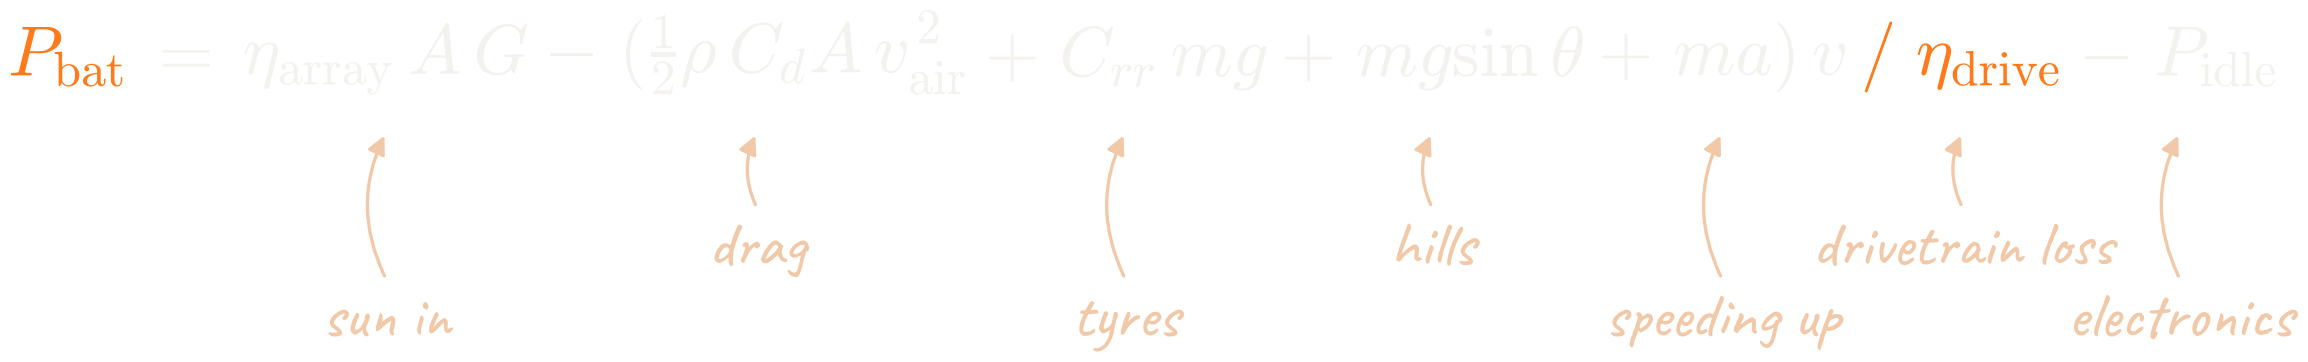
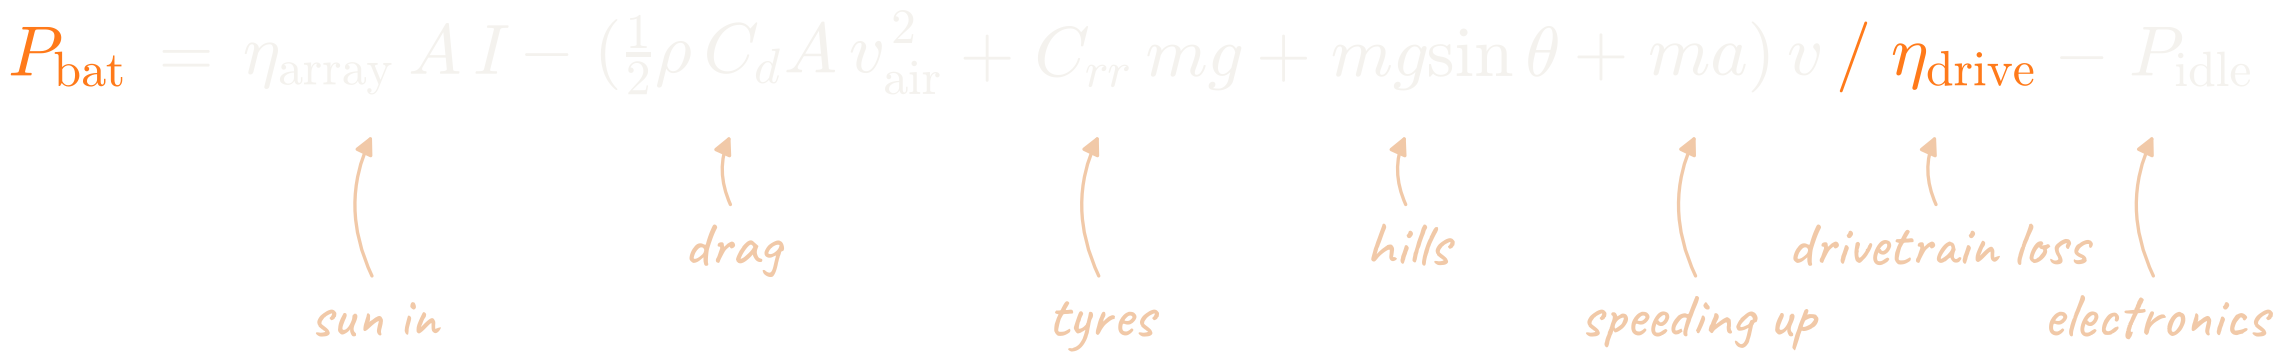
Deck figures: labelled waterfall, MPPT names, irradiance I, Day 2 Stage 2 energy chart

diff --git a/Pre-WSC/sasol_analysis/report/deck_figures.py b/Pre-WSC/sasol_analysis/report/deck_figures.py
@@ -136,10 +136,11 @@ def plan_profile():
 
 # ---------- race vs plan ----------
 def waterfall():
+    from matplotlib.patches import Patch
     t = pd.read_csv(PVA / "plan_vs_actual_by_day.csv").set_index("day")
     route = {d: t.asg_km[d] - t.blind_km[d] for d in (2, 3)}
-    steps = [("Plan", 3202.0, "total")]
-    steps += [(f"D{d}\nroute", route[d], "route") for d in (2, 3)]
+    steps = [("Planned", 3202.0, "total")]
+    steps += [(f"Day {d}\nreroute", route[d], "route") for d in (2, 3)]
     for d in range(1, 9):
         steps.append((f"Day {d}", t.actual_km[d] - (t.plan_km[d] + route.get(d, 0.0)), "loss"))
     steps.append(("Driven", float(t.actual_km.sum()), "total"))
@@ -148,15 +149,19 @@ def waterfall():
     for i, (lab, v, kind) in enumerate(steps):
         if kind == "total":
             ax.bar(i, v, color=INK, width=.64)
-            ax.text(i, v + 55, f"{v:.0f}", ha="center", fontsize=17, weight="bold")
+            ax.text(i, v + 55, f"{v:.0f} km", ha="center", fontsize=15, weight="bold")
             run = v
         else:
             ax.bar(i, abs(v), bottom=run + min(v, 0), color=LGREY if kind == "route" else ORANGE, width=.64)
-            ax.text(i, run + max(v, 0) + 55, f"{v:+.0f}".replace("-", "−"), ha="center", fontsize=15, color="#444")
+            ax.text(i, run + max(v, 0) + 55, f"{v:+.0f}".replace("-", "\u2212"), ha="center", fontsize=14, color="#444")
             run += v
-    ax.set_xticks(range(len(steps))); ax.set_xticklabels([s[0] for s in steps], fontsize=14)
+    ax.set_xticks(range(len(steps))); ax.set_xticklabels([s[0] for s in steps], fontsize=13)
     ax.tick_params(axis="x", length=0)
-    ax.set_ylabel("km"); ax.set_ylim(0, 3600)
+    ax.set_ylabel("distance (km)"); ax.set_ylim(0, 3700)
+    ax.legend(handles=[Patch(color=INK, label="planned / driven total"),
+                       Patch(color=LGREY, label="route changed by the organisers"),
+                       Patch(color=ORANGE, label="km not driven: electrical and mechanical faults")],
+              fontsize=13, loc="upper right", ncol=1)
     save(fig, "waterfall.png")
 
 
@@ -180,14 +185,15 @@ def climb_eta():
 def shading():
     s = pd.read_csv(PVA / "shading_by_relaz.csv")
     fig, ax = plt.subplots(figsize=(10.0, 4.8))
-    sty = {"A": (GREY, "-", "o", "A rear left"), "B": (LGREY, "-", "o", "B rear right"),
-           "C": (DEEP, "--", "s", "C front right"), "D": (ORANGE, "-", "s", "D front left")}
+    sty = {"A": (GREY, "-", "o", "MPPT A, rear left"), "B": (LGREY, "-", "o", "MPPT B, rear right"),
+           "C": (DEEP, "--", "s", "MPPT C, front right"), "D": (ORANGE, "-", "s", "MPPT D, front left")}
     for c, (col, ls, mk, lab) in sty.items():
         ax.plot(s.bin, s[f"{c}_mean"], ls=ls, marker=mk, color=col, lw=2.4, ms=7, label=lab)
     ax.set_xticks([-180, -90, 0, 90, 180])
     ax.set_xticklabels(["behind", "sun on left", "ahead", "sun on right", "behind"])
-    ax.set_ylabel("output / best string"); ax.set_ylim(0, 1.3); ax.set_yticks([0, .25, .5, .75, 1.0])
-    ax.legend(fontsize=14, ncol=4, loc="upper center")
+    ax.set_ylabel("output / best MPPT"); ax.set_ylim(0, 1.3); ax.set_yticks([0, .25, .5, .75, 1.0])
+    ax.legend(fontsize=13, ncol=2, loc="upper center")
+    ax.set_ylim(0, 1.45)
     save(fig, "shading.png")
 
 
@@ -205,6 +211,20 @@ def energy_balance():
     ax.set_ylabel("kWh used")
     ax.legend(fontsize=14, ncol=3, loc="upper right")
     save(fig, "energy_balance.png")
+
+
+def d2s2():
+    e = pd.read_csv(PVA / "energy_balance_by_stage.csv")
+    r = e[(e.day == 2) & (e.phase == "stage2")].iloc[0]
+    vals = [-r.measured_net_wh / 1000, -r.original_net_wh / 1000, -r.refined_net_wh / 1000]
+    labs = ["measured\non the car", "original\nmodel", "refined\nmodel"]
+    fig, ax = plt.subplots(figsize=(8.0, 5.2))
+    ax.bar(range(3), vals, color=[INK, LGREY, ORANGE], width=.6)
+    for i, v in enumerate(vals):
+        ax.text(i, v + 0.06, f"{v:.2f} kWh", ha="center", fontsize=17, weight="bold")
+    ax.set_xticks(range(3)); ax.set_xticklabels(labs, fontsize=15); ax.tick_params(axis="x", length=0)
+    ax.set_ylabel("battery energy used (kWh)"); ax.set_ylim(0, 3.3)
+    save(fig, "d2s2.png")
 
 
 def sensitivity():
@@ -245,7 +265,7 @@ def lstm_rmse():
 
 if __name__ == "__main__":
     which = sys.argv[1:] or ["route_map", "altitude", "plan_profile", "waterfall", "climb_eta", "shading",
-                             "energy_balance", "sensitivity", "lstm_rmse"]
+                             "energy_balance", "d2s2", "sensitivity", "lstm_rmse"]
     for w in which:
         globals()[w]()
     print(sorted(p.name for p in OUT.glob("*.png")))

diff --git a/Pre-WSC/sasol_analysis/report/deck_equation.py b/Pre-WSC/sasol_analysis/report/deck_equation.py
@@ -42,7 +42,7 @@ if __name__ == "__main__":
     equation([
         (r"$P_{\mathrm{bat}}$", "", ORANGE),
         (r"$=$", "", WHITE),
-        (r"$\eta_{\mathrm{array}}\,A\,G$", "sun in", WHITE),
+        (r"$\eta_{\mathrm{array}}\,A\,I$", "sun in", WHITE),
         (r"$-\;(\frac{1}{2}\rho\, C_dA\, v_{\mathrm{air}}^2$", "drag", WHITE),
         (r"$+\;C_{rr}\, m g$", "tyres", WHITE),
         (r"$+\;m g \sin\theta$", "hills", WHITE),
